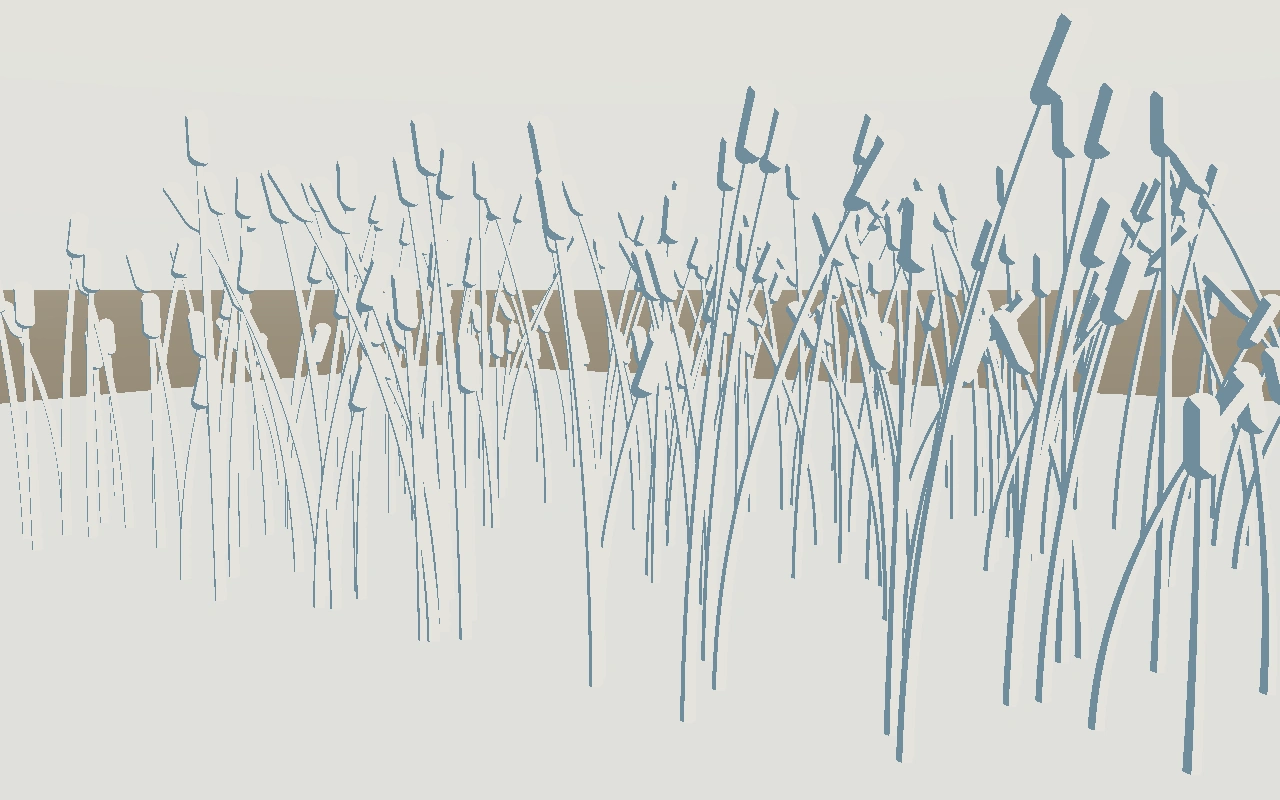
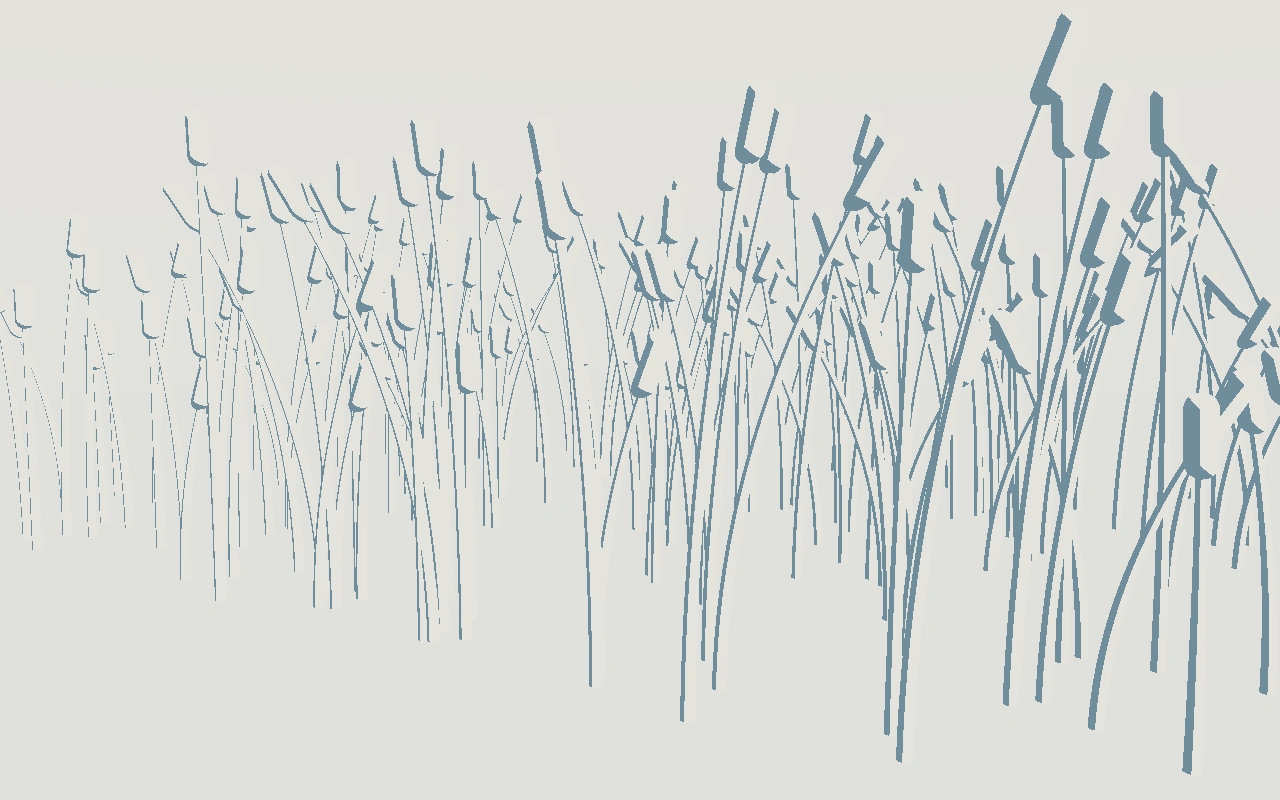
Prove shader IR replay on GPU and record whole-file bakeoff measurements

Changed region(s): [[0.3125, 0.3438, 1.0, 0.5], [0.0, 0.3438, 0.2812, 0.5]]

diff --git a/crates/loft-passes/src/lib.rs b/crates/loft-passes/src/lib.rs
@@ -166,8 +166,9 @@ fn geometry_fields(k: &KindDecl) -> Vec<usize> {
             ExprKind::Member(b, m) => {
                 if matches!(&b.kind, ExprKind::Name(n) if n == "self") {
                     out.push(m.name.clone());
+                } else {
+                    walk(b, out);
                 }
-                walk(b, out);
             }
             ExprKind::Call { args, .. } | ExprKind::Ctor { args, .. } => args.iter().for_each(|a| walk(&a.value, out)),
             ExprKind::Index(a, b) | ExprKind::Binary(_, a, b) => {
@@ -175,6 +176,9 @@ fn geometry_fields(k: &KindDecl) -> Vec<usize> {
                 walk(b, out);
             }
             ExprKind::Unary(_, a) => walk(a, out),
+            // Passing the entire row to a helper (including through a local)
+            // lets its callee read any column. Include all words in this key.
+            ExprKind::Name(n) if n == "self" => out.push(n.clone()),
             ExprKind::Num { .. } | ExprKind::Bool(_) | ExprKind::Name(_) => {}
         }
     }
@@ -198,7 +202,8 @@ fn geometry_fields(k: &KindDecl) -> Vec<usize> {
                     walk(hi, out);
                     block(body, out);
                 }
-                Stmt::Emit { .. } | Stmt::Expr(_) => {}
+                Stmt::Expr(e) => walk(e, out),
+                Stmt::Emit { .. } => {}
             }
         }
     }
@@ -211,7 +216,7 @@ fn geometry_fields(k: &KindDecl) -> Vec<usize> {
     // A placement applied by the draw is external to this proof. A query
     // explicitly reading its placement (for world-space wind, for example)
     // makes those words ordinary shape dependencies.
-    (0..k.row.len()).filter(|i| names.contains(&k.row[*i].name.name)).collect()
+    (0..k.row.len()).filter(|i| names.iter().any(|name| name == "self" || name == &k.row[*i].name.name)).collect()
 }
 
 /// Per drawn kind: rows, distinct shapes (one bound derivation each) and the derived L range.
@@ -466,7 +471,7 @@ pub fn compile_snapshot(src:&Sources,overrides:&[(String,f64)],samples:&[loft_ir
         match p.consts.get(name.as_str()) {
             Some(c) if c.comptime => {}
             _ => {
-                return Err(Diag::new(Code::E011, Span::NONE, format!("`--set {name}`: no `comptime const {name}`"), "override a `comptime const` declared in the scene"));
+                return Err(Diag::new(Code::E011, Span::NONE, format!("`--set {name}`: no scene parameter with this name"), "override a declared `param`"));
             }
         }
     }

diff --git a/crates/loft-cli/tests/bakeoff.rs b/crates/loft-cli/tests/bakeoff.rs
@@ -110,3 +110,36 @@ fn mirrored_fish_reverse_the_compiled_gpu_laws() {
         yaw[0], yaw[1]
     );
 }
+
+#[test]
+fn sexp_rebuilds_the_crab_with_its_shader_origins_and_pixels() {
+    let source = scene("crab");
+    let (program, _, _) = compile(&source, &[]).unwrap();
+    let text = loft_ir::sexp::write(&program).unwrap();
+    let restored = loft_ir::sexp::read(&text).unwrap();
+    assert_eq!(loft_ir::sexp::write(&restored).unwrap(), text);
+    assert!(
+        restored
+            .modules
+            .iter()
+            .flat_map(|m| &m.origins)
+            .any(|o| o.span.0.ends_with("crab.loft") && o.span.1 > 1 && o.span.2 > 1)
+    );
+    let device = loft_runner::gpu().unwrap();
+    let pixels = |p| {
+        let loaded = loft_runner::Loaded::new(&device, p, (160, 100), None).unwrap();
+        loaded.frame(&device, 2.0);
+        loaded.pixels(&device).unwrap()
+    };
+    let actual = pixels(&restored);
+    let expected = pixels(&program);
+    assert_eq!(actual.len(), expected.len());
+    assert_eq!(
+        actual
+            .iter()
+            .zip(expected)
+            .filter(|(a, b)| **a != *b)
+            .count(),
+        0
+    );
+}

diff --git a/agent_notes/2026-11-20_meta/v1_syntax.md b/agent_notes/2026-11-20_meta/v1_syntax.md
@@ -33,3 +33,36 @@ The first drafts are in commit a411e96. Each attempt below was a fresh invocatio
 Between attempts 2 and 3 the compiler acquired direct scan sampling, frame field names, contextual vectors and environment rows. The crab uses one lobe layout on both pupil branches and the prelude's fine value noise. The reed draft supplies its hash helper. The heron explicitly types its bearing, angle, eye and fish helpers.
 
 The heron first compiled in round 4. At 132 GPU ticks the two fish paths gave opposite yaw. A behavioral test then caught an error that type checking, Naga and the signed-turn test all missed. Turning immediately on takeoff removed the neck error before the check could ever report a miss. In round 5 the law waits for 4 cm of lift to rotate. The real GPU now reports a positive missed angle during takeoff, then held lock and posture after turning. The compiler also cannot infer the intended sign of the beak pitch; the scene uses the inverse of its desired pitch in the domain map. The still path samples one fused row-local GPU kernel at 120 Hz and re-derives the sampled geometry bounds before drawing. Persistent live motion, checkpoints and cross-table solvers belong to Phase 3.
+
+## Token counts
+
+The numbers include the complete UTF-8 file, comments and final newline. The encoder was tiktoken `o200k_base` with `encode_ordinary`. Library and engine baselines are the Phase 1 sources at `81330c5`. The bakeoff baselines are the spec-only drafts at `a411e96`.
+
+| File | Before | After |
+|---|---:|---:|
+| lib/analytic.loft | 640 | 942 |
+| lib/bsdf.loft | 1,511 | 1,375 |
+| lib/core.loft | 52 | 82 |
+| lib/frames.loft | 304 | 301 |
+| lib/layout.loft | 261 | 241 |
+| lib/light.loft | 727 | 649 |
+| lib/noise.loft | 437 | 421 |
+| lib/sdf.loft | 474 | 345 |
+| **Library** | **4,406** | **4,356** |
+| engines/blobs.loft | 966 | 727 |
+| engines/capsules.loft | 835 | 621 |
+| engines/hermit.loft | 4,651 | 3,021 |
+| **Engines** | **6,452** | **4,369** |
+| Bakeoff crab | 1,288 | 1,428 |
+| Bakeoff reeds | 637 | 679 |
+| Bakeoff heron | 1,048 | 1,251 |
+
+The Hermit reduction was 35.05% against a 36% prediction and a 35% gate. Three-segment capsule geometry shared by Hermit's leg query and ray test lives in the analytic library. The library and three ported engines together fell from 10,858 to 8,725 tokens (19.64%).
+
+## Parser and bakeoff verification
+
+- The independent Earley parser accepts all 14 files (eight libraries, three engines, three bakeoffs). The Rust CST replays all 14 byte for byte. Its raw-island fixture also covers Unicode, CRLF, same-line comments, nested WGSL comments and unmatched braces inside comments.
[1 lines of base64/hex data omitted]
+- The crab probe sampled both material branches at 141 angles and two times. All 564 results matched the independently computed rays from the reflected eye centers. Substituting the right origin on the left changes 62 decisions. The heron probe read GPU state and verdicts after 132 ticks. Positive and negative fish paths produced yaw +0.52000040 and −0.52000040 radians, a positive missed angle during takeoff, then held gaze and posture.
+- Milestone renders are WebP quality 95. [Crab](v1_syntax/crab.webp), [reeds](v1_syntax/reeds.webp), [positive fish](v1_syntax/heron-side-1.webp), [negative fish](v1_syntax/heron-side--1.webp).
+- Physical source lines, including comments and blank lines, against the row's estimates: `loft-parse/src` 1,631 vs 1,390, `loft-passes/src` net +540 vs +450, `lib/*.loft` 288 vs 280. The passes delta includes deleting all 741 lines of the Syntax A parser. The new parser count includes the lossless CST and its regressions. The passes also lower the executable bakeoff motion and preserve SSA author locations.
